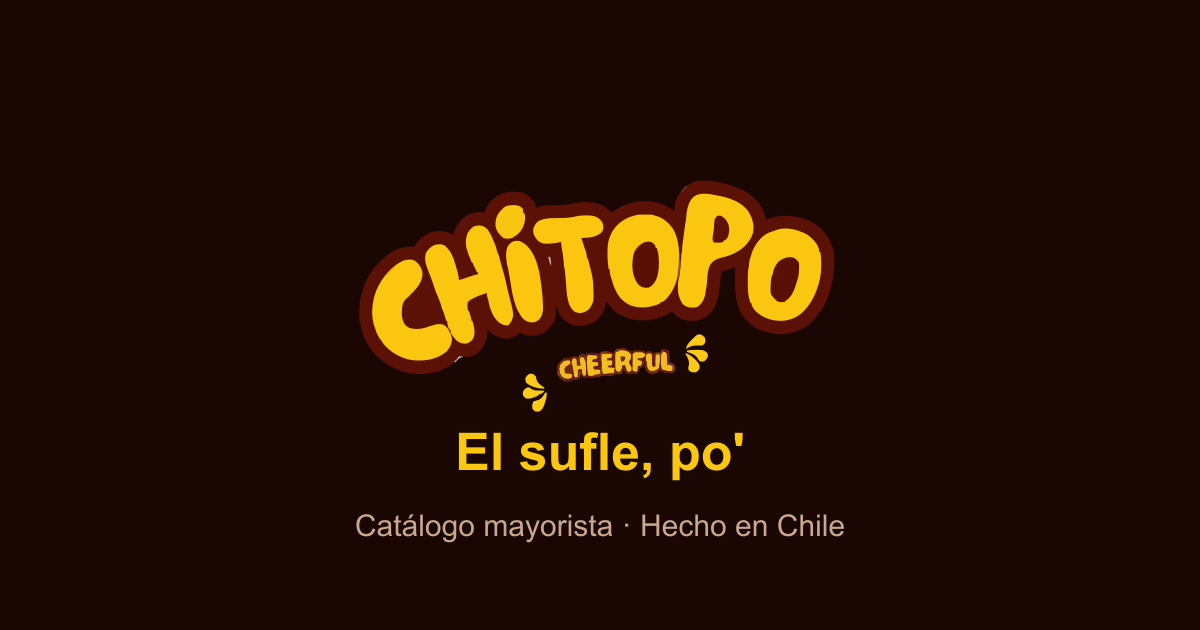
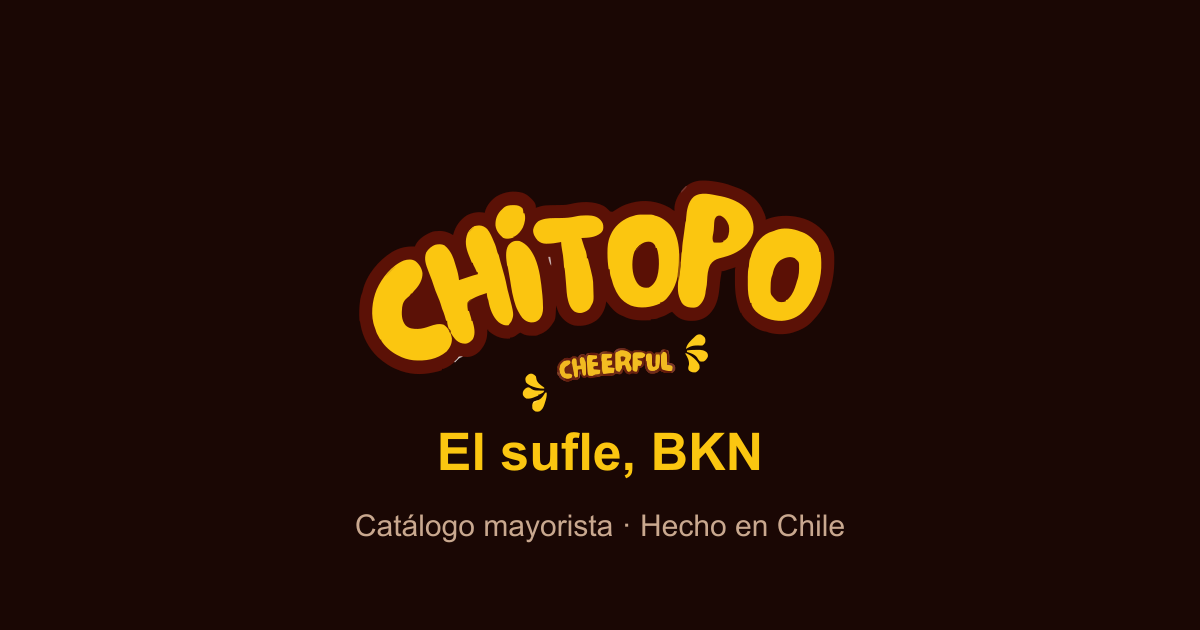
Lema de Chitopo: El sufle, BKN
Reemplaza "El sufle, po'" en el hero, la cinta, la tarjeta de la home,
el logo con lema, el título de /chitopo/ y la imagen para compartir.
En computador, "BKN" se corre según el alto de la bolsa y el tamaño de
la palabra para no quedar debajo de la bolsa en pantallas grandes.

Changed region(s): [[0.3392, 0.6635, 0.6475, 0.754]]

diff --git a/landing/src/components/sections/Hero.jsx b/landing/src/components/sections/Hero.jsx
@@ -436,15 +436,17 @@ export default function Hero() {
 
         <div ref={poster} className="relative flex-1 flex flex-col items-center justify-center min-h-0 lg:min-h-[440px] mt-4 lg:mt-2">
           {/* Dos líneas decididas a mano. En computadora "El sufle," va
-              arriba de lado a lado y la bolsa apenas le pisa el pie; "po'"
+              arriba de lado a lado y la bolsa apenas le pisa el pie; "BKN"
               cae abajo a la derecha de la bolsa, así se lee en diagonal.
-              En teléfono quedan apiladas arriba. */}
+              Se corre media bolsa (0.35 × su alto), media palabra (0.9em)
+              y un respiro: así nunca queda debajo de la bolsa, sea cual sea
+              la proporción de la pantalla. En teléfono quedan apiladas arriba. */}
           <h1
             ref={headline}
             className="hero-title font-title uppercase m-0 leading-[0.86] text-[clamp(4.2rem,21vw,7rem)] lg:text-[clamp(7rem,min(14.5vw,24svh),15rem)] text-center w-full lg:absolute lg:inset-0 lg:flex lg:flex-col lg:justify-between"
           >
             <span className="block whitespace-nowrap">El sufle,</span>
-            <span className="block whitespace-nowrap translate-x-[20%] lg:translate-x-[27%]">po'</span>
+            <span className="block whitespace-nowrap translate-x-[20%] lg:translate-x-[calc(min(16.45svh,196px)_+_0.9em_+_1.25rem)]">BKN</span>
           </h1>
 
           <div ref={anchor} className="relative z-10 mt-3 sm:mt-0 lg:mt-0 lg:absolute lg:bottom-0 lg:left-1/2 lg:-translate-x-1/2">

diff --git a/landing/chitopo/index.html b/landing/chitopo/index.html
@@ -4,7 +4,7 @@
     <meta charset="UTF-8" />
     <meta name="viewport" content="width=device-width, initial-scale=1.0, viewport-fit=cover" />
     <meta name="theme-color" content="#ffc20e" />
-    <title>Chitopo — El sufle, po' | Master Snacks</title>
+    <title>Chitopo — El sufle, BKN | Master Snacks</title>
     <meta
       name="description"
       content="Chitopo, la marca de horneados de Master Snacks: suflés y maní hechos en La Pintana, con sabor de acá. Mira el catálogo mayorista y cotiza por WhatsApp."
@@ -15,7 +15,7 @@
 
     <meta property="og:type" content="website" />
     <meta property="og:site_name" content="Chitopo" />
-    <meta property="og:title" content="Chitopo — El sufle, po'" />
+    <meta property="og:title" content="Chitopo — El sufle, BKN" />
     <meta
       property="og:description"
       content="Suflés horneados y maní hechos en La Pintana. Una marca de Master Snacks."

diff --git a/catalogo-mayorista/src/data/brands.js b/catalogo-mayorista/src/data/brands.js
@@ -30,7 +30,7 @@ export const BRANDS = [
     name: "Chitopo",
     descriptor: "Horneados",
     blurb: "Suflés horneados y maní, crujientes y sin fritura.",
-    tagline: "El sufle, po'",
+    tagline: "El sufle, BKN",
     instagram: "chitoposnakcs.cl",
     path: "chitopo/",
     baked: true,

diff --git a/landing/src/data/brands.js b/landing/src/data/brands.js
@@ -25,7 +25,7 @@ export const BRANDS = [
     name: "Chitopo",
     descriptor: "Horneados",
     blurb: "Suflés horneados y maní, crujientes y sin fritura.",
-    tagline: "El sufle, po'",
+    tagline: "El sufle, BKN",
     instagram: "chitoposnakcs.cl",
     path: "chitopo/",
     baked: true,

diff --git a/landing/src/pages/ChitopoPage.jsx b/landing/src/pages/ChitopoPage.jsx
@@ -26,7 +26,7 @@ const NAV = [
 ];
 
 const CINTA = [
-  "El sufle, po'",
+  "El sufle, BKN",
   "Queso",
   "Papa",
   "Frutos del bosque",
